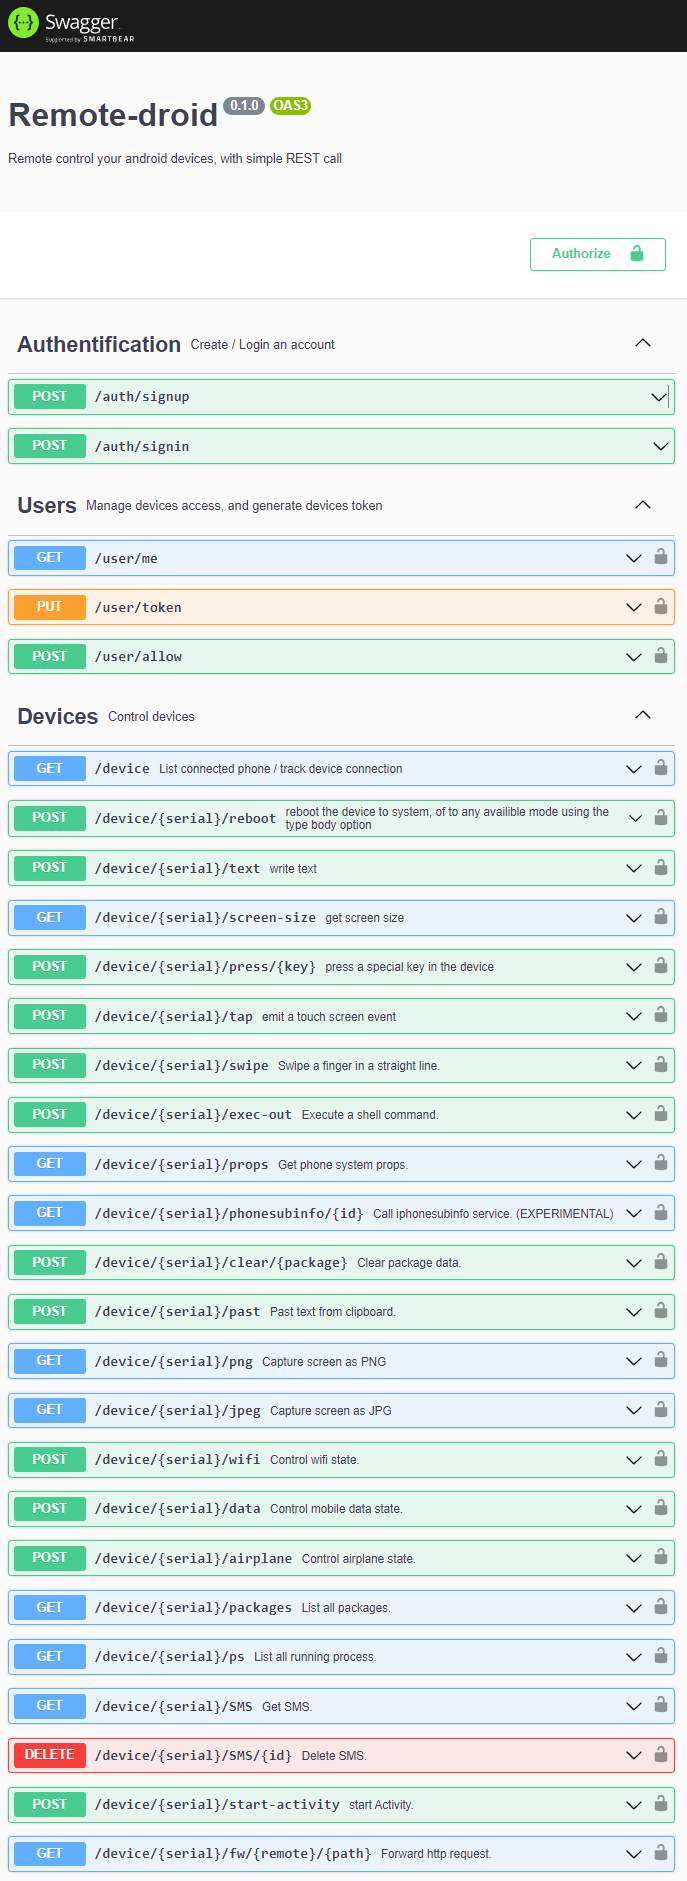
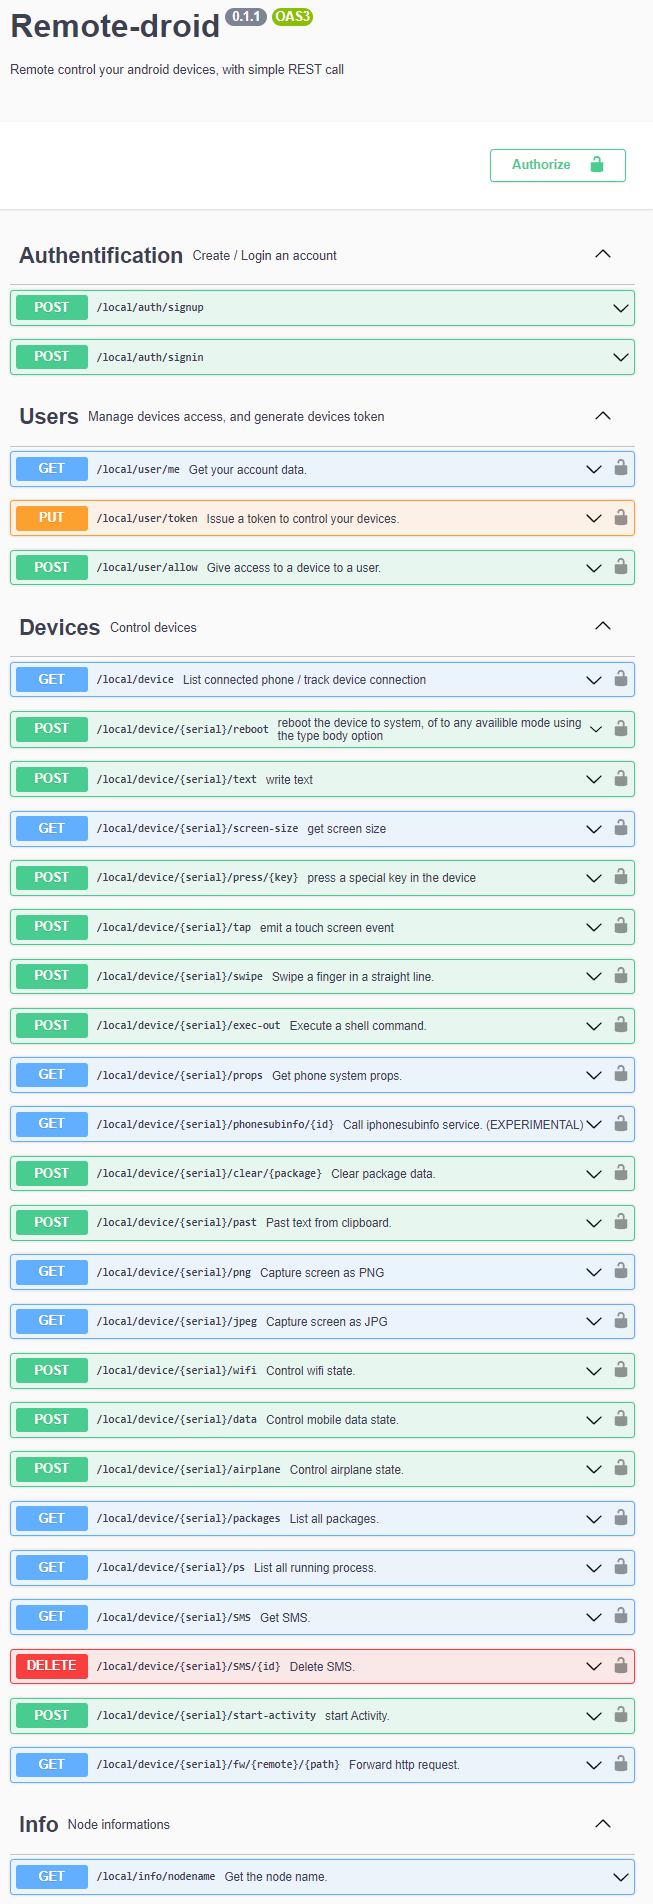
add global prefix

diff --git a/src/main.ts b/src/main.ts
@@ -5,8 +5,14 @@ import { AppModule } from "./app.module";
 import { WsAdapterCatchAll } from "./WsAdapterCatchAll";
 import { NestExpressApplication } from "@nestjs/platform-express";
 import * as fs from "fs";
+import process from "process";
 
 async function bootstrap() {
+  const SERVICE_PORT = Number(process.env.SERVICE_PORT || "3009");
+  let globalPrefix = process.env.GLOBAL_PREFIX || "/";
+  globalPrefix = globalPrefix.replace(/^\/?(.*)\/?$/, "$1");
+  if (!globalPrefix) globalPrefix = "/";
+  else globalPrefix = `/${globalPrefix}/`;
   let version = "0.0.0";
   try {
     const pkg = JSON.parse(fs.readFileSync("package.json", { encoding: "utf8" }));
@@ -17,6 +23,7 @@ async function bootstrap() {
   app.useGlobalPipes(new ValidationPipe({ transform: true, whitelist: true }));
   app.useWebSocketAdapter(new WsAdapterCatchAll(app));
   app.enableCors();
+  app.setGlobalPrefix(globalPrefix);
   const options = new DocumentBuilder()
     .setTitle("Remote-droid")
     .setDescription("Remote control your android devices, with simple REST call")
@@ -44,10 +51,11 @@ async function bootstrap() {
     .addTag("Users", "Manage devices access, and generate devices token")
     .addTag("Devices", "Control devices")
     .addTag("Info", "Node informations")
+    // .setBasePath(globalPrefix)
     .build();
   const document = SwaggerModule.createDocument(app, options);
-  SwaggerModule.setup("api", app, document);
-  await app.listen(3009);
+  SwaggerModule.setup(globalPrefix + "api", app, document);
+  await app.listen(SERVICE_PORT);
   console.log(`Application is running on: ${await app.getUrl()}`);
 }
 

diff --git a/README.md b/README.md
@@ -87,6 +87,22 @@ $ npm run start:dev
 $ npm run start:prod
 ```
 
+## Configuration
+
+### env vars
+
+- JWT_SECRET
+Choose a JWT secret token (no default value, refuse to start without this value)
+
+- DATABASE_REDIS_URL:
+Redis database to store authentification info (is not define will keep all access open)
+
+- GLOBAL_PREFIX
+Global URL prefix, default value is `/`
+
+- SERVICE_PORT
+The HTTP port the service will listen to
+
 ## See also
 
 [DeviceFarmer/stf](https://github.com/DeviceFarmer/stf) An older platform that provides similar functions with an older code base.

diff --git a/CHANGELOG.md b/CHANGELOG.md
@@ -1,12 +1,11 @@
 # CHANGELOG
 
-## v0.1.2 
+## v0.1.1 (2022-08-29)
 - add InfoModule
 - improve WebSocket
 - add some openAPI doc
-
-## v0.1.1 2022-08-22
 - Rename incorrect WebSocket URLs
+- add GLOBAL_PREFIX
 
 ## v0.1.0 2022-08-22
 - Rename routes to final names.
